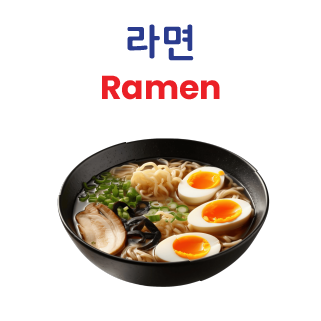
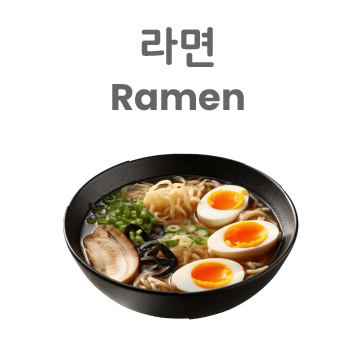
update kategori dan asset kategori

diff --git a/app/Database/Seeds/Kategori.php b/app/Database/Seeds/Kategori.php
@@ -16,6 +16,7 @@ class Kategori extends Seeder
                 'deskripsi'    => 'Lorem',
                 'slug'    => 'kimchi-dan-makanan-pendamping',
                 'img'    => 'ICON CATEGORY-01.png',
+                'short' => 1,
             ],
             [
                 'id_kategori' => 2,
@@ -23,6 +24,7 @@ class Kategori extends Seeder
                 'deskripsi'    => 'Lorem',
                 'slug'    => 'nori',
                 'img'    => 'ICON CATEGORY-02.png',
+                'short' => 2,
             ],
             [
                 'id_kategori' => 3,
@@ -30,6 +32,7 @@ class Kategori extends Seeder
                 'deskripsi'    => 'Lorem',
                 'slug'    => 'buah-dan-sayur',
                 'img'    => 'ICON CATEGORY-03.png',
+                'short' => 3,
             ],
             [
                 'id_kategori' => 4,
@@ -37,6 +40,7 @@ class Kategori extends Seeder
                 'deskripsi'    => 'Lorem',
                 'slug'    => 'saus-dan-bubuk-cabai',
                 'img'    => 'ICON CATEGORY-04.png',
+                'short' => 4,
             ],
             [
                 'id_kategori' => 5,
@@ -44,6 +48,7 @@ class Kategori extends Seeder
                 'deskripsi'    => 'Lorem',
                 'slug'    => 'daging-dan-telur',
                 'img'    => 'ICON CATEGORY-05.png',
+                'short' => 5,
             ],
             [
                 'id_kategori' => 6,
@@ -51,6 +56,7 @@ class Kategori extends Seeder
                 'deskripsi'    => 'Lorem',
                 'slug'    => 'makanan-laut',
                 'img'    => 'ICON CATEGORY-06.png',
+                'short' => 6,
             ],
             [
                 'id_kategori' => 7,
@@ -58,6 +64,7 @@ class Kategori extends Seeder
                 'deskripsi'    => 'Lorem',
                 'slug'    => 'beras-dan-kacang',
                 'img'    => 'ICON CATEGORY-07.png',
+                'short' => 7,
             ],
             [
                 'id_kategori' => 8,
@@ -65,6 +72,7 @@ class Kategori extends Seeder
                 'deskripsi'    => 'Lorem',
                 'slug'    => 'ramen',
                 'img'    => 'ICON CATEGORY-08.png',
+                'short' => 8,
             ],
             [
                 'id_kategori' => 9,
@@ -72,6 +80,7 @@ class Kategori extends Seeder
                 'deskripsi'    => 'Lorem',
                 'slug'    => 'snack',
                 'img'    => 'ICON CATEGORY-09.png',
+                'short' => 9,
             ],
             [
                 'id_kategori' => 10,
@@ -79,6 +88,7 @@ class Kategori extends Seeder
                 'deskripsi'    => 'Lorem',
                 'slug'    => 'roti',
                 'img'    => 'ICON CATEGORY-10.png',
+                'short' => 10,
             ],
             [
                 'id_kategori' => 11,
@@ -86,6 +96,7 @@ class Kategori extends Seeder
                 'deskripsi'    => 'Lorem',
                 'slug'    => 'susu-dan-olahan',
                 'img'    => 'ICON CATEGORY-11.png',
+                'short' => 12,
             ],
             [
                 'id_kategori' => 12,
@@ -93,6 +104,7 @@ class Kategori extends Seeder
                 'deskripsi'    => 'Lorem',
                 'slug'    => 'minyak',
                 'img'    => 'ICON CATEGORY-12.png',
+                'short' => 13,
             ],
             [
                 'id_kategori' => 13,
@@ -100,6 +112,7 @@ class Kategori extends Seeder
                 'deskripsi'    => 'Lorem',
                 'slug'    => 'minuman-kopi-dan-teh',
                 'img'    => 'ICON CATEGORY-13.png',
+                'short' => 14,
             ],
             [
                 'id_kategori' => 14,
@@ -107,6 +120,7 @@ class Kategori extends Seeder
                 'deskripsi'    => 'Lorem',
                 'slug'    => 'dumpling-dan-makanan-beku',
                 'img'    => 'ICON CATEGORY-14.png',
+                'short' => 15,
             ],
             [
                 'id_kategori' => 15,
@@ -114,6 +128,7 @@ class Kategori extends Seeder
                 'deskripsi'    => 'Lorem',
                 'slug'    => 'Kosmetik',
                 'img'    => 'ICON CATEGORY-15.png',
+                'short' => 16,
             ],
             [
                 'id_kategori' => 16,
@@ -121,6 +136,7 @@ class Kategori extends Seeder
                 'deskripsi'    => 'Lorem',
                 'slug'    => 'peralatan-dapur',
                 'img'    => 'ICON CATEGORY-16.png',
+                'short' => 17,
             ],
             [
                 'id_kategori' => 17,
@@ -128,6 +144,15 @@ class Kategori extends Seeder
                 'deskripsi'    => 'Lorem',
                 'slug'    => 'Sup',
                 'img'    => 'ICON CATEGORY-17.png',
+                'short' => 18,
+            ],
+            [
+                'id_kategori' => 18,
+                'nama_kategori' => 'Nasi Instant & Bubur',
+                'deskripsi'    => 'Lorem',
+                'slug'    => 'Nasi-Instant-dan-Bubur',
+                'img'    => 'ICON CATEGORY-18.png',
+                'short' => 11,
             ]
         ];
 
